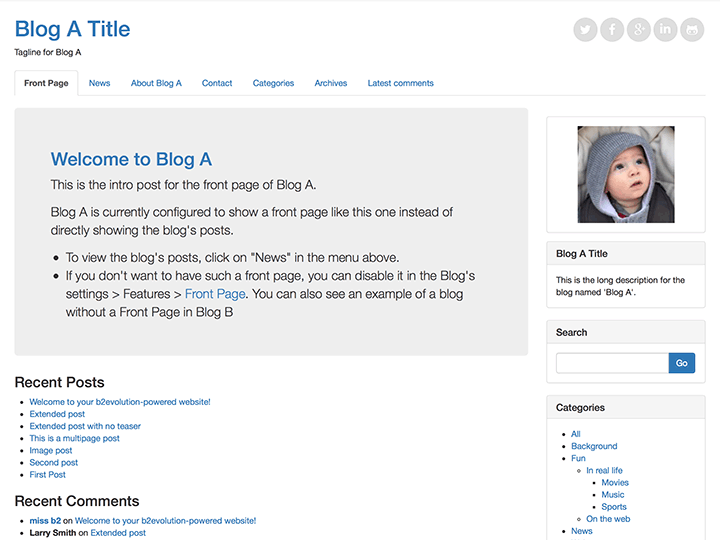
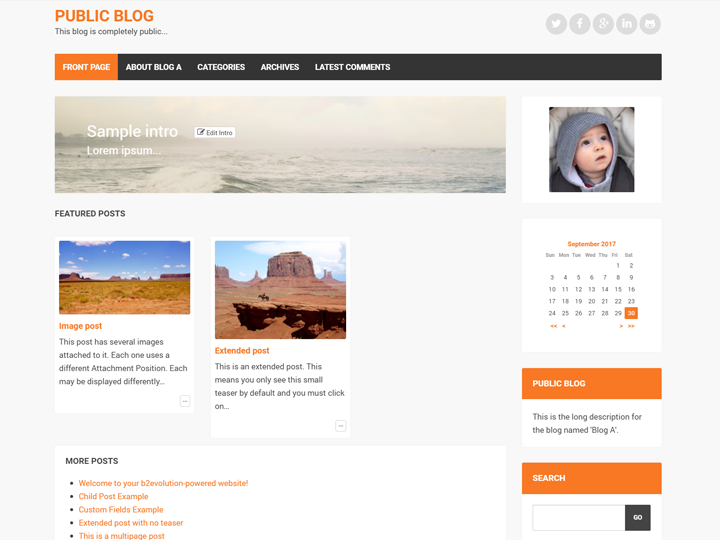
visual update + skinshot update + README.md

diff --git a/style.min.css b/style.min.css
@@ -1,1 +1,1 @@
-.evo_post_feedback_feed_msg a:hover,.search_result .search_content_wrap .search_title a{text-decoration:none}#skin_wrapper{font-family:Roboto,sans-serif;font-size:15px;line-height:1.7}.navbar{border:none;border-radius:2px;box-shadow:0 0 6px rgba(0,0,0,.03);margin-bottom:30px}.navbar .navbar-collapse{border:none;padding:0}.panel.panel-default .panel-body,.panel.panel-default .panel-heading,.results .panel-body,.results .panel-heading{padding:20px}.navbar .navbar-collapse .nav{margin:0}.navbar .navbar-collapse .nav li>a{font-weight:700;text-transform:uppercase}.navbar .navbar-collapse .nav>li:first-child a.selected{border-radius:2px 0 0 2px}.navbar.navbar-default .navbar-toggle:focus,.navbar.navbar-default .navbar-toggle:hover{background-color:transparent}.panel.panel-default,.results{border-radius:2px;border:none;box-shadow:0 0 6px rgba(0,0,0,.03);margin-bottom:30px}.panel.panel-default.panel-meta,.panel.panel-default.panel-meta .panel.panel-default>.panel-body>.form-group,.results.panel-meta,.results.panel-meta .panel.panel-default>.panel-body>.form-group{margin:0}.panel.panel-default .panel-heading h3,.panel.panel-default .panel-heading h4,.results .panel-heading h3,.results .panel-heading h4{font-weight:700;text-transform:uppercase}.panel.panel-default .panel-footer,.results .panel-footer{border-top:0;border-radius:2px;background-color:transparent;padding:0 20px 20px}.panel.panel-default.panel-meta .panel.panel-default,.results.panel-meta .panel.panel-default{box-shadow:none}.panel.panel-default .pagination,.results .pagination{box-shadow:0 0 6px rgba(0,0,0,.1);margin:20px 0 12px}.panel.panel-default .page_size_selector,.results .page_size_selector{margin-bottom:20px}main.panel .panel-body{padding:20px}main.panel h2{font-size:16px;font-weight:700;text-transform:uppercase;margin:0 0 20px}.evo_item_meta_comments .panel-heading{font-weight:700;text-transform:uppercase}figure{margin:0 0 1em}.evo_comment img,.evo_content_block .evo_comment_avatar img,.evo_widget img,.form-control,.img-responsive,.popover img,.search_submit{border-radius:2px}#bCalendarToday{border:none;border-radius:2px}.evo_comment__list_title,.post_comments_link a,input.preview,input.submit{border-radius:2px;box-shadow:0 0 6px rgba(0,0,0,.03);font-size:12px;font-weight:700;margin:0 0 30px;text-transform:uppercase}.post_comments_link{margin:0}.evo_comment__meta_info,.evo_post_comment_notification,.evo_post_feedback_feed_msg{padding:0}.evo_comment__meta_info a,.evo_post_comment_notification a,.evo_post_feedback_feed_msg a{border-radius:2px;border:none;box-shadow:0 0 6px rgba(0,0,0,.03);line-height:1.1;margin-bottom:30px}.evo_form__comment .panel.panel-default,.evo_form__comment .panel.panel-default .panel-body>.form-group,.evo_post_comment_notification p,.evo_post_feedback_feed_msg p{margin:0}.evo_comment__list_title,.evo_comment__meta_info a,.evo_post_comment_notification a,.evo_post_feedback_feed_msg a,input.preview,input.submit{padding:15px}a[rel~=nofollow]:not([class~=btn]):hover{background:0 0}.evo_post_comment_notification p a,.evo_post_feedback_feed_msg p a{display:inline-block;white-space:inherit}.evo_post_comment_notification p a span,.evo_post_feedback_feed_msg p a span{color:inherit!important}.evo_form__comment .panel.panel-default .panel-body{padding:0}.well.evo_intro_post{border:none;border-radius:2px;box-shadow:0 0 6px rgba(0,0,0,.03);padding:20px;margin-bottom:30px}.well.evo_intro_post .evo_post_title h2,.well.evo_intro_post>.panel-body,.well.evo_intro_post>.panel-heading{padding:0}main .disp_mediaidx_widget>h3,main .evo_widget:not(.evo_layout_rwd):not(.evo_layout_flow),main .widget_flow_blocks>div,main .widget_rwd_blocks .widget_rwd_content{border:none;border-radius:2px;box-shadow:0 0 6px rgba(0,0,0,.03);padding:20px;margin-bottom:30px}.evo_widget.error_404{margin:0 0 30px}.evo_widget h3{font-size:16px;font-weight:700;text-transform:uppercase;margin:0 0 20px}.evo_widget.widget_core_coll_featured_intro{padding:0!important;border-radius:2px}.evo_widget.widget_core_coll_featured_intro .jumbotron{border-radius:2px}.evo_widget.widget_core_coll_featured_intro .jumbotron .evo_post_title h2,.evo_widget.widget_core_coll_featured_intro .jumbotron .panel-body,.evo_widget.widget_core_coll_featured_intro .jumbotron .panel-heading{padding:0}.deleted_thread_explanation,div.error_403,div.error_additional_content .widget_core_coll_tag_cloud{border:none;border-radius:2px;box-shadow:0 0 6px rgba(0,0,0,.03);padding:20px;margin:0 0 30px}.pager li a,form ul.token-input-list-facebook{border-radius:2px}.deleted_thread_explanation h2,div.error_403 h2,div.error_additional_content .widget_core_coll_tag_cloud h2{font-size:16px;font-weight:700;text-transform:uppercase;margin:0 0 20px}.pager,div.error_additional_content{margin:0}.pager li a{border:none;box-shadow:0 0 6px rgba(0,0,0,.03);margin-bottom:30px;padding:15px}.evo_container__item_single{border-radius:0 0 2px 2px}.post_tags a{border-radius:2px}.disp_comments .evo_comment.panel .panel-heading>.evo_comment_title,.disp_comments .evo_comment.panel .panel-heading>h4.panel-title.pull-right{float:none!important}.evo_comment .panel-body{border-radius:0 0 2px 2px}.evo_comment .panel-body .evo_comment_avatar img{box-shadow:0 0 6px rgba(0,0,0,.03)}.disp_search main>h2{border-radius:2px 2px 0 0;box-shadow:0 0 6px rgba(0,0,0,.03);font-size:16px;font-weight:700;text-transform:uppercase;margin:0;padding:20px}input.search_field{margin-bottom:0;display:inline-block}form.search .search_options{width:100%}form.search .search_options .search_option input{margin-right:5px}form.search .search_options .search_option label{margin-bottom:0;margin-top:5px}div.compact_search_form input.search_field,div.extended_search_form input.search_field{height:49px;margin:0;padding:15px;width:100%}div.compact_search_form input.search_submit,div.extended_search_form input.search_submit{margin:0}div.extended_search_form{text-align:center;margin:0 auto;max-width:530px}div.extended_search_form .search_options{text-align:center}div.extended_search_form .search_options .search_option{display:inline-block;margin-right:10px}.search_result{border-radius:2px;box-shadow:0 0 6px rgba(0,0,0,.03);padding:20px;margin-bottom:30px}.search_result .search_result_score{border-radius:2px;display:block;float:none;font-size:16px;font-weight:700;line-height:auto;margin:0 auto 20px;padding:15px;text-align:center;width:74px}.search_result .search_content_wrap{margin:0}.search_result .search_content_wrap .search_title{font-size:16px;font-weight:700;padding-bottom:10px;text-transform:uppercase}.search_result .search_content_wrap .search_title a:hover{text-decoration:underline}.search_result .search_content_wrap .result_content,.search_result .search_content_wrap>.search_info{padding-bottom:10px}.search_result .search_content_wrap>.search_info:last-child{padding:0}.search_result .search_content_wrap>.search_info img.avatar_before_login{border-radius:2px;vertical-align:middle}.disp_access_denied main,.disp_arcdir main,.disp_threads main .panel{border-radius:2px;border:none;box-shadow:0 0 6px rgba(0,0,0,.03);margin-bottom:30px;padding:20px 20px 10px}.disp_posts main>p.msg_nothing{border-radius:2px;border:none;box-shadow:0 0 6px rgba(0,0,0,.03);margin-bottom:30px;padding:20px}.disp_threads main .panel{padding:0}.disp_threads main .panel>h2{border:none;border-radius:2px 2px 0 0;box-shadow:0 0 6px rgba(0,0,0,.03);font-size:16px;font-weight:700;text-transform:uppercase;padding:20px;margin:-20px -20px 30px}.disp_threads main .panel .form_text_input{height:49px}.disp_threads main .panel label[for=thrd_title]{padding-top:13px}.disp_threads main .panel .SaveButton{border-radius:2px;box-shadow:0 0 6px rgba(0,0,0,.03);font-size:12px;font-weight:700;margin:0;padding:10px 16px;text-transform:uppercase}.disp_arcdir main>h2,.disp_catdir main .widget_core_coll_category_list>h3{border:none;border-radius:2px 2px 0 0;box-shadow:0 0 6px rgba(0,0,0,.03);font-size:16px;font-weight:700;text-transform:uppercase;padding:20px;margin:-20px -20px 20px}.disp_posts main>h2,.disp_sitemap main>h2{border:none;border-radius:2px 2px 0 0;box-shadow:0 0 6px rgba(0,0,0,.03);font-size:16px;font-weight:700;text-transform:uppercase;padding:20px;margin:0 0 30px}.widget_core_user_login .submit,.widget_core_user_register .submit{font-size:12px}.widget_core_user_login .field_login_btn .panel .panel-body,.widget_core_user_register .field_register_btn .panel .panel-body{padding-left:0;padding-right:0;padding-bottom:0}.disp_lostpassword .evo_form__login .panel .panel-body{padding-top:0}.evo_container__header{margin-bottom:30px}.evo_container__page_top{margin-top:30px}.evo_container__page_top .ufld_icon_links{text-align:right}.nav.nav-tabs{margin-top:0}.widget_core_user_login #login_form .form-group{margin:0}.widget_core_user_login #login_form label{text-align:left;width:160px;padding-left:0}.widget_core_user_login #login_form .controls{padding:0;width:100%}.widget_core_user_login #login_form .form_text_input.form-control{width:100%}.widget_core_user_login .field_login_btn .panel{margin:0;border:none;border-radius:0;box-shadow:none}.widget_core_user_login .field_login_btn .panel .panel-body #submit_login_form{margin-right:10px}.widget_core_user_login .register_link{display:block;padding-top:10px}.widget_core_user_register #register_form .form-group{margin:0}.widget_core_user_register #register_form label{text-align:left;width:160px;padding-left:0}.form-horizontal .controls textarea.form-control,.widget_core_user_register #register_form .form_text_input.form-control{width:100%}.widget_core_user_register #register_form .controls{padding:0;width:100%}.widget_core_user_register .field_register_btn .panel{margin:0;border:none;border-radius:0;box-shadow:none}.widget_core_user_register .field_register_btn .panel .panel-body #submit_login_form{margin-right:10px}ul.profile_tabs{margin:0 0 30px;position:relative}ul.profile_tabs li{display:inline-block;list-style-type:none;margin:10px 0}ul.profile_tabs li a{border-radius:2px;box-shadow:0 0 6px rgba(0,0,0,.03);margin:0 10px 10px 0;padding:15px}ul.profile_tabs li a:hover{text-decoration:none}.disp_profile .panel-heading,.disp_pwdchange .panel-heading,.disp_subs .panel-heading{font-size:16px;font-weight:700;line-height:1.1;text-transform:uppercase}.disp_profile .SaveButton,.disp_pwdchange .SaveButton,.disp_subs .SaveButton{border-radius:2px;box-shadow:0 0 6px rgba(0,0,0,.03);font-size:12px;font-weight:700;margin:0 0 30px;padding:15px;text-transform:uppercase}.profile_avatar{float:right;padding:10px;margin-left:10px}table.catselect input#new_category_name{width:98%!important}label.control-label[for=post_title]{width:auto}textarea.message_text{width:95%}.evo_post{margin-bottom:30px}.evo_post .small.text-muted{margin:4px 0 10px}.evo_post .small.text-muted a,.evo_post .small.text-muted a .glyphicon{color:inherit}.evo_hasbgimg{background-repeat:no-repeat;background-size:cover;background-position:center}div.bSideItem{background:#F7F5FA;border-radius:5px;padding:10px;margin-bottom:10px;text-shadow:0 1px 0 #FFF}div.bSideItem h4{margin-top:0}.skin-form .panel-body .panel{border:none;box-shadow:none}.skin-form .panel-body .panel-body{padding:0}.skin-form .fieldset,.skin-form .fieldset div.input{margin:0}.skin-form .control-buttons,.skin-form div.input{padding:0;width:100%;text-align:center}#login_form .control-buttons,.evo_panel__activation #activateinfo_form .control-buttons,.evo_panel__register .control-buttons{text-align:left}.evo_panel__activation,.evo_panel__login,.evo_panel__lostpass,.evo_panel__register{min-width:290px;margin:1.5em auto auto}.evo_panel__activation .panel,.evo_panel__login .panel,.evo_panel__lostpass .panel,.evo_panel__register .panel{margin:5px 0}.evo_panel__activation .panel .panel-body,.evo_panel__login .panel .panel-body,.evo_panel__lostpass .panel .panel-body,.evo_panel__register .panel .panel-body{padding:20px 20px 10px}.evo_panel__activation .panel .panel-body .form_text_input,.evo_panel__activation .panel .panel-body .input_text,.evo_panel__login .panel .panel-body .form_text_input,.evo_panel__login .panel .panel-body .input_text,.evo_panel__lostpass .panel .panel-body .form_text_input,.evo_panel__lostpass .panel .panel-body .input_text,.evo_panel__register .panel .panel-body .form_text_input,.evo_panel__register .panel .panel-body .input_text{border-radius:2px;height:49px}.evo_panel__activation .panel .panel-body .btn-primary,.evo_panel__activation .panel .panel-body .btn-success,.evo_panel__login .panel .panel-body .btn-primary,.evo_panel__login .panel .panel-body .btn-success,.evo_panel__lostpass .panel .panel-body .btn-primary,.evo_panel__lostpass .panel .panel-body .btn-success,.evo_panel__register .panel .panel-body .btn-primary,.evo_panel__register .panel .panel-body .btn-success{border-radius:2px;box-shadow:0 0 6px rgba(0,0,0,.03);font-size:12px;font-weight:700;margin:0;text-transform:uppercase}.evo_panel__login{max-width:400px}.evo_panel__lostpass{max-width:480px}.evo_panel__lostpass #ffield_x label{display:none}.evo_panel__activation{max-width:530px}.evo_panel__register{max-width:580px}.evo_panel__register.register-disabled{width:350px}.evo_form__login input.form-control[type=password],.evo_form__login input.form-control[type=text],.evo_panel__register .form-control#country,.evo_panel__register .form-control#u{width:100%}.evo_form__login_links{padding:0 5px;font-size:92%}.evo_form__login fieldset{margin-bottom:20px}.evo_form__login .controls{padding:0;margin:0;width:100%}.evo_form__login .control-buttons{margin-left:0}.evo_form__login .btn{margin-top:5px}.standard_login_link{text-align:center;margin:3em 0 1ex}.pagination,div.action_messages,div.log_container{margin:0}.form_footer_notes{margin-top:0}.pagination li>a,.pagination li>span{border:0;padding:10px 14px}.item_single_header{padding:8px 0 20px}.evo_post_title{display:table}.evo_post_title h1{margin-bottom:0}.evo_post_title h2{display:table-cell;margin:0;padding:20px 0 0}.evo_post_title .btn-group{display:table-cell;padding:5px 0 0 30px;vertical-align:middle}.evo_post_title .btn-group a{color:#333!important;background-color:#fff!important;border-color:#ccc!important}footer.row{margin-top:20px}.avatar_main_frame{background-color:transparent}
+.evo_post_feedback_feed_msg a:hover,.search_result .search_content_wrap .search_title a{text-decoration:none}#skin_wrapper{font-family:Roboto,sans-serif;font-size:15px;line-height:1.7}.navbar{border:none;border-radius:2px;box-shadow:0 0 6px rgba(0,0,0,.03);margin-bottom:30px}.navbar .navbar-collapse{border:none;padding:0}.panel.panel-default .panel-body,.panel.panel-default .panel-heading,.results .panel-body,.results .panel-heading{padding:20px}.navbar .navbar-collapse .nav{margin:0}.navbar .navbar-collapse .nav li>a{font-weight:700;text-transform:uppercase}.navbar .navbar-collapse .nav>li:first-child a.selected{border-radius:2px 0 0 2px}.navbar.navbar-default .navbar-toggle:focus,.navbar.navbar-default .navbar-toggle:hover{background-color:transparent}.panel.panel-default,.results{border-radius:2px;border:none;box-shadow:0 0 6px rgba(0,0,0,.03);margin-bottom:30px}.panel.panel-default.panel-meta,.panel.panel-default.panel-meta .panel.panel-default>.panel-body>.form-group,.results.panel-meta,.results.panel-meta .panel.panel-default>.panel-body>.form-group{margin:0}.panel.panel-default .panel-heading h3,.panel.panel-default .panel-heading h4,.results .panel-heading h3,.results .panel-heading h4{font-weight:700;text-transform:uppercase}.panel.panel-default .panel-footer,.results .panel-footer{border-top:0;border-radius:2px;background-color:transparent;padding:0 20px 20px}.panel.panel-default.panel-meta .panel.panel-default,.results.panel-meta .panel.panel-default{box-shadow:none}.panel.panel-default .pagination,.results .pagination{box-shadow:0 0 6px rgba(0,0,0,.1);margin:20px 0 12px}.panel.panel-default .page_size_selector,.results .page_size_selector{margin-bottom:20px}main.panel .panel-body{padding:20px}main.panel h2{font-size:16px;font-weight:700;text-transform:uppercase;margin:0 0 20px}.evo_item_meta_comments .panel-heading{font-weight:700;text-transform:uppercase}figure{margin:0 0 1em}.evo_comment img,.evo_content_block .evo_comment_avatar img,.evo_widget img,.form-control,.img-responsive,.popover img,.search_submit{border-radius:2px}#bCalendarToday{border:none;border-radius:2px}.evo_comment__list_title,.post_comments_link a,input.preview,input.submit{border-radius:2px;box-shadow:0 0 6px rgba(0,0,0,.03);font-size:12px;font-weight:700;margin:0 0 30px;text-transform:uppercase}.post_comments_link{margin:0}.evo_comment__meta_info,.evo_post_comment_notification,.evo_post_feedback_feed_msg{padding:0}.evo_comment__meta_info a,.evo_post_comment_notification a,.evo_post_feedback_feed_msg a{border-radius:2px;border:none;box-shadow:0 0 6px rgba(0,0,0,.03);line-height:1.1;margin-bottom:30px}.evo_form__comment .panel.panel-default,.evo_form__comment .panel.panel-default .panel-body>.form-group,.evo_post_comment_notification p,.evo_post_feedback_feed_msg p{margin:0}.evo_comment__list_title,.evo_comment__meta_info a,.evo_post_comment_notification a,.evo_post_feedback_feed_msg a,input.preview,input.submit{padding:15px}a[rel~=nofollow]:not([class~=btn]):hover{background:0 0}.evo_post_comment_notification p a,.evo_post_feedback_feed_msg p a{display:inline-block;white-space:inherit}.evo_post_comment_notification p a span,.evo_post_feedback_feed_msg p a span{color:inherit!important}.evo_form__comment .panel.panel-default .panel-body{padding:0}.well.evo_intro_post{border:none;border-radius:2px;box-shadow:0 0 6px rgba(0,0,0,.03);padding:20px;margin-bottom:30px}.well.evo_intro_post .evo_post_title h2,.well.evo_intro_post>.panel-body,.well.evo_intro_post>.panel-heading{padding:0}main .disp_mediaidx_widget>h3,main .evo_widget:not(.evo_layout_rwd):not(.evo_layout_flow),main .widget_flow_blocks>div,main .widget_rwd_blocks .widget_rwd_content{border:none;border-radius:2px;box-shadow:0 0 6px rgba(0,0,0,.03);padding:20px;margin-bottom:30px}.evo_widget.widget_core_coll_title h1{font-weight:700;text-transform:uppercase;font-size:30px;margin-bottom:0}.evo_widget.error_404{margin:0 0 30px}.evo_widget h3{font-size:16px;font-weight:700;text-transform:uppercase;margin:0 0 20px}.evo_widget.widget_core_coll_featured_intro{padding:0!important;border-radius:2px}.evo_widget.widget_core_coll_featured_intro .jumbotron{border-radius:2px}.evo_widget.widget_core_coll_featured_intro .jumbotron .evo_post_title h2,.evo_widget.widget_core_coll_featured_intro .jumbotron .panel-body,.evo_widget.widget_core_coll_featured_intro .jumbotron .panel-heading{padding:0}.deleted_thread_explanation,div.error_403,div.error_additional_content .widget_core_coll_tag_cloud{border:none;border-radius:2px;box-shadow:0 0 6px rgba(0,0,0,.03);padding:20px;margin:0 0 30px}.pager li a,form ul.token-input-list-facebook{border-radius:2px}.deleted_thread_explanation h2,div.error_403 h2,div.error_additional_content .widget_core_coll_tag_cloud h2{font-size:16px;font-weight:700;text-transform:uppercase;margin:0 0 20px}.pager,div.error_additional_content{margin:0}.pager li a{border:none;box-shadow:0 0 6px rgba(0,0,0,.03);margin-bottom:30px;padding:15px}.evo_container__item_single{border-radius:0 0 2px 2px}.post_tags a{border-radius:2px}.disp_comments .evo_comment.panel .panel-heading>.evo_comment_title,.disp_comments .evo_comment.panel .panel-heading>h4.panel-title.pull-right{float:none!important}.evo_comment .panel-body{border-radius:0 0 2px 2px}.evo_comment .panel-body .evo_comment_avatar img{box-shadow:0 0 6px rgba(0,0,0,.03)}.disp_search main>h2{border-radius:2px 2px 0 0;box-shadow:0 0 6px rgba(0,0,0,.03);font-size:16px;font-weight:700;text-transform:uppercase;margin:0;padding:20px}input.search_field{margin-bottom:0;display:inline-block}form.search .search_options{width:100%}form.search .search_options .search_option input{margin-right:5px}form.search .search_options .search_option label{margin-bottom:0;margin-top:5px}div.compact_search_form input.search_field,div.extended_search_form input.search_field{height:49px;margin:0;padding:15px;width:100%}div.compact_search_form input.search_submit,div.extended_search_form input.search_submit{margin:0}div.extended_search_form{text-align:center;margin:0 auto;max-width:530px}div.extended_search_form .search_options{text-align:center}div.extended_search_form .search_options .search_option{display:inline-block;margin-right:10px}.search_result{border-radius:2px;box-shadow:0 0 6px rgba(0,0,0,.03);padding:20px;margin-bottom:30px}.search_result .search_result_score{border-radius:2px;display:block;float:none;font-size:16px;font-weight:700;line-height:auto;margin:0 auto 20px;padding:15px;text-align:center;width:74px}.search_result .search_content_wrap{margin:0}.search_result .search_content_wrap .search_title{font-size:16px;font-weight:700;padding-bottom:10px;text-transform:uppercase}.search_result .search_content_wrap .search_title a:hover{text-decoration:underline}.search_result .search_content_wrap .result_content,.search_result .search_content_wrap>.search_info{padding-bottom:10px}.search_result .search_content_wrap>.search_info:last-child{padding:0}.search_result .search_content_wrap>.search_info img.avatar_before_login{border-radius:2px;vertical-align:middle}.disp_access_denied main,.disp_arcdir main,.disp_threads main .panel{border-radius:2px;border:none;box-shadow:0 0 6px rgba(0,0,0,.03);margin-bottom:30px;padding:20px 20px 10px}.disp_posts main>p.msg_nothing{border-radius:2px;border:none;box-shadow:0 0 6px rgba(0,0,0,.03);margin-bottom:30px;padding:20px}.disp_threads main .panel{padding:0}.disp_threads main .panel>h2{border:none;border-radius:2px 2px 0 0;box-shadow:0 0 6px rgba(0,0,0,.03);font-size:16px;font-weight:700;text-transform:uppercase;padding:20px;margin:-20px -20px 30px}.disp_threads main .panel .form_text_input{height:49px}.disp_threads main .panel label[for=thrd_title]{padding-top:13px}.disp_threads main .panel .SaveButton{border-radius:2px;box-shadow:0 0 6px rgba(0,0,0,.03);font-size:12px;font-weight:700;margin:0;padding:10px 16px;text-transform:uppercase}.disp_arcdir main>h2,.disp_catdir main .widget_core_coll_category_list>h3{border:none;border-radius:2px 2px 0 0;box-shadow:0 0 6px rgba(0,0,0,.03);font-size:16px;font-weight:700;text-transform:uppercase;padding:20px;margin:-20px -20px 20px}.disp_posts main>h2,.disp_sitemap main>h2{border:none;border-radius:2px 2px 0 0;box-shadow:0 0 6px rgba(0,0,0,.03);font-size:16px;font-weight:700;text-transform:uppercase;padding:20px;margin:0 0 30px}.widget_core_user_login .submit,.widget_core_user_register .submit{font-size:12px}.widget_core_user_login .field_login_btn .panel .panel-body,.widget_core_user_register .field_register_btn .panel .panel-body{padding-left:0;padding-right:0;padding-bottom:0}.disp_lostpassword .evo_form__login .panel .panel-body{padding-top:0}.evo_container__header{margin-bottom:30px}.evo_container__page_top{margin-top:30px}.evo_container__page_top .ufld_icon_links{text-align:right}.nav.nav-tabs{margin-top:0}.widget_core_user_login #login_form .form-group{margin:0}.widget_core_user_login #login_form label{text-align:left;width:160px;padding-left:0}.widget_core_user_login #login_form .controls{padding:0;width:100%}.widget_core_user_login #login_form .form_text_input.form-control{width:100%}.widget_core_user_login .field_login_btn .panel{margin:0;border:none;border-radius:0;box-shadow:none}.widget_core_user_login .field_login_btn .panel .panel-body #submit_login_form{margin-right:10px}.widget_core_user_login .register_link{display:block;padding-top:10px}.widget_core_user_register #register_form .form-group{margin:0}.widget_core_user_register #register_form label{text-align:left;width:160px;padding-left:0}.form-horizontal .controls textarea.form-control,.widget_core_user_register #register_form .form_text_input.form-control{width:100%}.widget_core_user_register #register_form .controls{padding:0;width:100%}.widget_core_user_register .field_register_btn .panel{margin:0;border:none;border-radius:0;box-shadow:none}.widget_core_user_register .field_register_btn .panel .panel-body #submit_login_form{margin-right:10px}ul.profile_tabs{margin:0 0 30px;position:relative}ul.profile_tabs li{display:inline-block;list-style-type:none;margin:10px 0}ul.profile_tabs li a{border-radius:2px;box-shadow:0 0 6px rgba(0,0,0,.03);margin:0 10px 10px 0;padding:15px}ul.profile_tabs li a:hover{text-decoration:none}.disp_profile .panel-heading,.disp_pwdchange .panel-heading,.disp_subs .panel-heading{font-size:16px;font-weight:700;line-height:1.1;text-transform:uppercase}.disp_profile .SaveButton,.disp_pwdchange .SaveButton,.disp_subs .SaveButton{border-radius:2px;box-shadow:0 0 6px rgba(0,0,0,.03);font-size:12px;font-weight:700;margin:0 0 30px;padding:15px;text-transform:uppercase}.profile_avatar{float:right;padding:10px;margin-left:10px}table.catselect input#new_category_name{width:98%!important}label.control-label[for=post_title]{width:auto}textarea.message_text{width:95%}.evo_post{margin-bottom:30px}.evo_post .small.text-muted{margin:4px 0 10px}.evo_post .small.text-muted a,.evo_post .small.text-muted a .glyphicon{color:inherit}.evo_hasbgimg{background-repeat:no-repeat;background-size:cover;background-position:center}div.bSideItem{background:#F7F5FA;border-radius:5px;padding:10px;margin-bottom:10px;text-shadow:0 1px 0 #FFF}div.bSideItem h4{margin-top:0}.skin-form .panel-body .panel{border:none;box-shadow:none}.skin-form .panel-body .panel-body{padding:0}.skin-form .fieldset,.skin-form .fieldset div.input{margin:0}.skin-form .control-buttons,.skin-form div.input{padding:0;width:100%;text-align:center}#login_form .control-buttons,.evo_panel__activation #activateinfo_form .control-buttons,.evo_panel__register .control-buttons{text-align:left}.evo_panel__activation,.evo_panel__login,.evo_panel__lostpass,.evo_panel__register{min-width:290px;margin:1.5em auto auto}.evo_panel__activation .panel,.evo_panel__login .panel,.evo_panel__lostpass .panel,.evo_panel__register .panel{margin:5px 0}.evo_panel__activation .panel .panel-body,.evo_panel__login .panel .panel-body,.evo_panel__lostpass .panel .panel-body,.evo_panel__register .panel .panel-body{padding:20px 20px 10px}.evo_panel__activation .panel .panel-body .form_text_input,.evo_panel__activation .panel .panel-body .input_text,.evo_panel__login .panel .panel-body .form_text_input,.evo_panel__login .panel .panel-body .input_text,.evo_panel__lostpass .panel .panel-body .form_text_input,.evo_panel__lostpass .panel .panel-body .input_text,.evo_panel__register .panel .panel-body .form_text_input,.evo_panel__register .panel .panel-body .input_text{border-radius:2px;height:49px}.evo_panel__activation .panel .panel-body .btn-primary,.evo_panel__activation .panel .panel-body .btn-success,.evo_panel__login .panel .panel-body .btn-primary,.evo_panel__login .panel .panel-body .btn-success,.evo_panel__lostpass .panel .panel-body .btn-primary,.evo_panel__lostpass .panel .panel-body .btn-success,.evo_panel__register .panel .panel-body .btn-primary,.evo_panel__register .panel .panel-body .btn-success,.form-horizontal .btn-primary,.form-horizontal .btn-success{border-radius:2px;box-shadow:0 0 6px rgba(0,0,0,.03);font-size:12px;font-weight:700;margin:0;text-transform:uppercase}.evo_panel__login{max-width:400px}.evo_panel__lostpass{max-width:480px}.evo_panel__lostpass #ffield_x label{display:none}.evo_panel__activation{max-width:530px}.evo_panel__register{max-width:580px}.evo_panel__register.register-disabled{width:350px}.evo_form__login input.form-control[type=password],.evo_form__login input.form-control[type=text],.evo_panel__register .form-control#country,.evo_panel__register .form-control#u{width:100%}.evo_form__login_links{padding:0 5px;font-size:92%}.evo_form__login fieldset{margin-bottom:20px}.evo_form__login .controls{padding:0;margin:0;width:100%}.evo_form__login .control-buttons{margin-left:0}.evo_form__login .btn{margin-top:5px}.standard_login_link{text-align:center;margin:3em 0 1ex}.pagination,div.action_messages,div.log_container{margin:0}.form_footer_notes{margin-top:0}.pagination li>a,.pagination li>span{border:0;padding:10px 14px}.item_single_header{padding:8px 0 20px}.evo_post_title{display:table}.evo_post_title h1{margin-bottom:0}.evo_post_title h2{display:table-cell;margin:0;padding:20px 0 0}.evo_post_title .btn-group{display:table-cell;padding:5px 0 0 30px;vertical-align:middle}.evo_post_title .btn-group a{color:#333!important;background-color:#fff!important;border-color:#ccc!important}footer.row{margin-top:20px}.avatar_main_frame{background-color:transparent}

diff --git a/style.css b/style.css
@@ -198,6 +198,12 @@ main .disp_mediaidx_widget > h3 {
   padding: 20px;
   margin-bottom: 30px;
 }
+.evo_widget.widget_core_coll_title h1 {
+  font-weight: 700;
+  text-transform: uppercase;
+  font-size: 30px;
+  margin-bottom: 0;
+}
 .evo_widget.error_404 {
   margin: 0 0 30px;
 }
@@ -652,6 +658,15 @@ div.bSideItem h4 {
 .evo_panel__lostpass .panel .panel-body .btn-primary,
 .evo_panel__register .panel .panel-body .btn-primary,
 .evo_panel__activation .panel .panel-body .btn-primary {
+  border-radius: 2px;
+  box-shadow: 0 0 6px rgba(0, 0, 0, 0.03);
+  font-size: 12px;
+  font-weight: 700;
+  margin: 0;
+  text-transform: uppercase;
+}
+.form-horizontal .btn-success,
+.form-horizontal .btn-primary {
   border-radius: 2px;
   box-shadow: 0 0 6px rgba(0, 0, 0, 0.03);
   font-size: 12px;

diff --git a/style.less b/style.less
@@ -196,6 +196,14 @@ main
 }
 .evo_widget
 {
+	&.widget_core_coll_title {
+		h1 {
+			font-weight: 700;
+			text-transform: uppercase;
+			font-size: 30px;
+			margin-bottom: 0;
+		}
+	}
 	&.error_404 {
 		margin: 0 0 30px;
 	}
@@ -699,6 +707,17 @@ div.bSideItem {
 				text-transform: uppercase;
 			}
 		}
+	}
+}
+.form-horizontal
+{
+	.btn-success, .btn-primary {
+		border-radius: 2px;
+		box-shadow: 0 0 6px rgba(0,0,0,0.03);
+		font-size: 12px;
+		font-weight: 700;
+		margin: 0;
+		text-transform: uppercase;
 	}
 }
 .evo_panel__login {

diff --git a/README.md b/README.md
@@ -1,22 +1,3 @@
-## Bootstrap Blog Skin
+## Lava Blog Skin
 
-### Front Page
-
-![disp=front](skinshot_front.jpg)
-
-### Posts Page
-
-![disp=posts](skinshot_posts.jpg)
-
-### Single Page
-
-![disp=single](skinshot_single.jpg)
-
-### Update log
-
-#### v6.8.5-stable
-- Fix for background color customzation option
-- New color customzation options
-
-#### v6.8.0-aplha
-- LESS modules includes moved from skin style to generic b2evo CSS file
+![Skinshot](skinshot.png)
